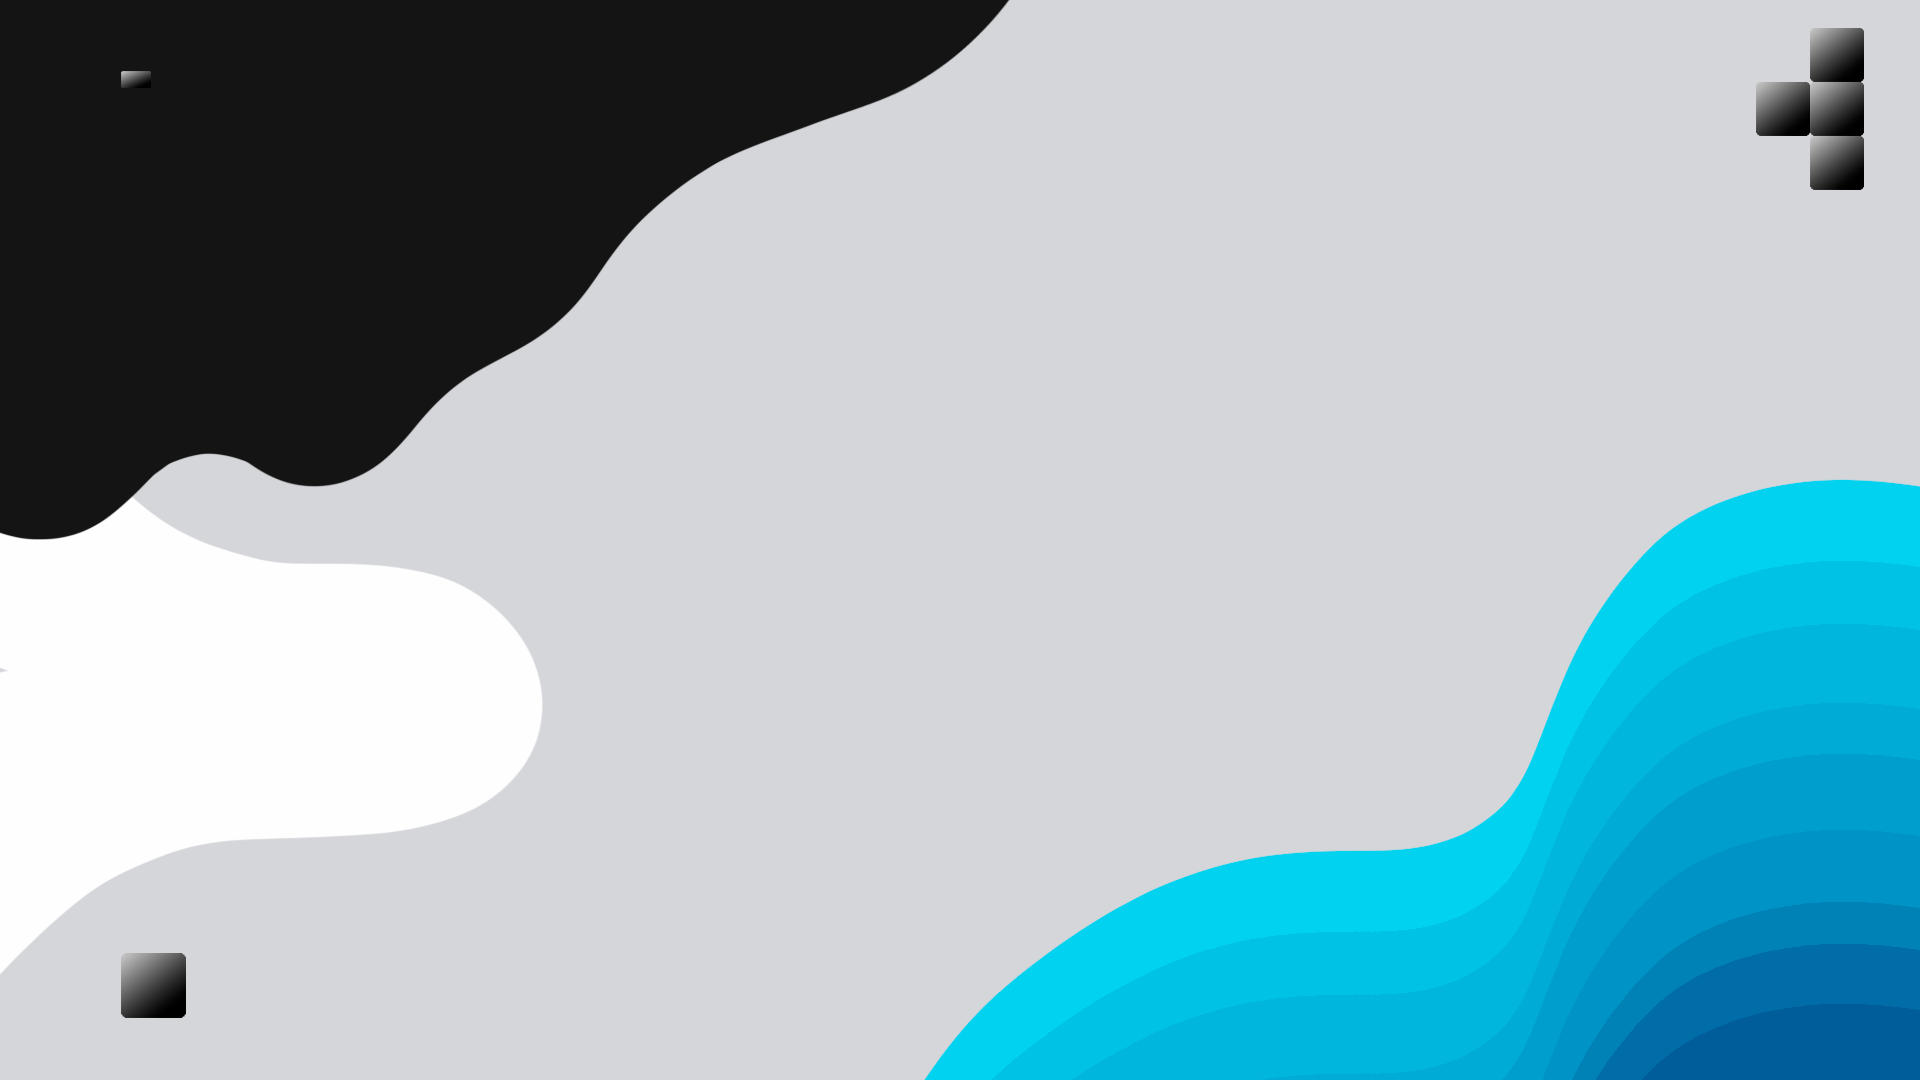
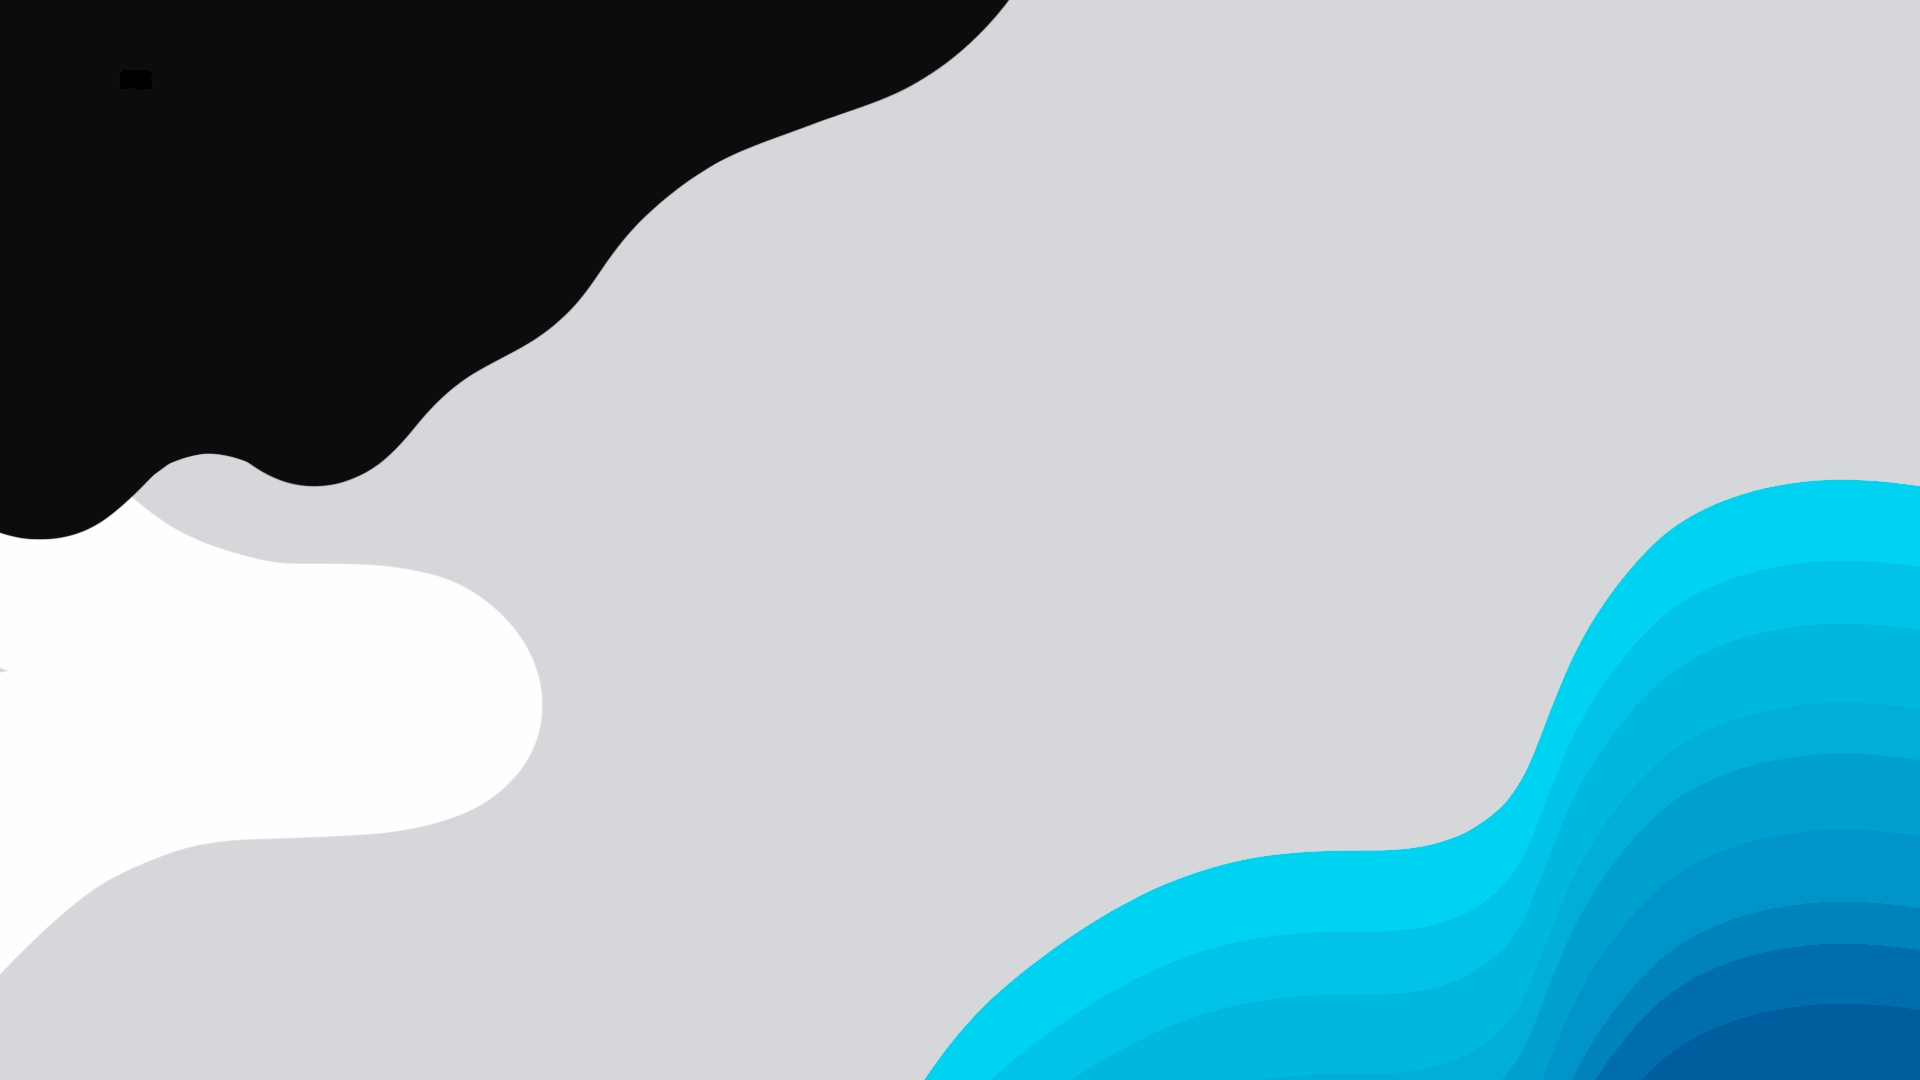
delete images innecesaries, create route profile and users tsx for the test

Changed region(s): [[0.9062, 0.0, 0.9688, 0.1833], [0.0625, 0.8556, 0.0938, 0.9472], [0.0625, 0.0611, 0.0938, 0.0917]]

diff --git a/frontend/app/users.ts b/frontend/app/users.ts
@@ -1,0 +1,23 @@
+export const users = [
+    {
+        "id": 1,
+        "username": "johndoe",
+        "email": "johndoe@example.com",
+        "password_hash": "$2b$10$eImiTXuWVxfM37uY4JANjQx3h0JAzS3oGzNT3xjXY1pF27MewAXrO",
+        "created_at": "2024-09-03T12:34:56Z"
+    },
+    {
+        "id": 2,
+        "username": "janedoe",
+        "email": "janedoe@example.com",
+        "password_hash": "$2b$10$zJzCxa5eF4Rt77MBaPxhmOApI6UCNxE8KQEq.jlVZhgCqZfGSKzVa",
+        "created_at": "2024-09-03T13:45:67Z"
+    },
+    {
+        "id": 3,
+        "username": "adminuser",
+        "email": "admin@example.com",
+        "password_hash": "$2b$10$XKrtZ9L3eX47uLJ7O9PjlupVsRscxQ2yRlBmiyA0l7uD1QhhwtaWq",
+        "created_at": "2024-09-03T14:56:78Z"
+    }
+]

diff --git a/frontend/tailwind.config.ts b/frontend/tailwind.config.ts
@@ -18,9 +18,7 @@ const config: Config = {
         "gradient-radial": "radial-gradient(var(--tw-gradient-stops))",
         "gradient-conic":
           "conic-gradient(from 180deg at 50% 50%, var(--tw-gradient-stops))",
-        "wallpaper": 'url("/wallpaper.png")',
-        "wallpaper2": 'url("/wallpaper2.jpg")',
-        "wallpaper3": 'url("/fix.jpg")'
+        "wallpaper": 'url("/wallpaper.png")'
       },
       fontFamily: {
         Grotesk: ["Space Grotesk", 'sans-serif'],

diff --git a/frontend/app/profile/[userId]/page.tsx b/frontend/app/profile/[userId]/page.tsx
@@ -1,0 +1,14 @@
+import React from 'react'
+import { users } from '@/app/users';
+
+export default function Profile({ params } : { params : { userId: string } }) {
+    const { userId } = params;
+
+    const user = users.filter(user => {
+        return user.id === parseInt(userId);
+    });
+
+  return (
+    <h1>{ user[0].username }</h1>
+  )
+}
